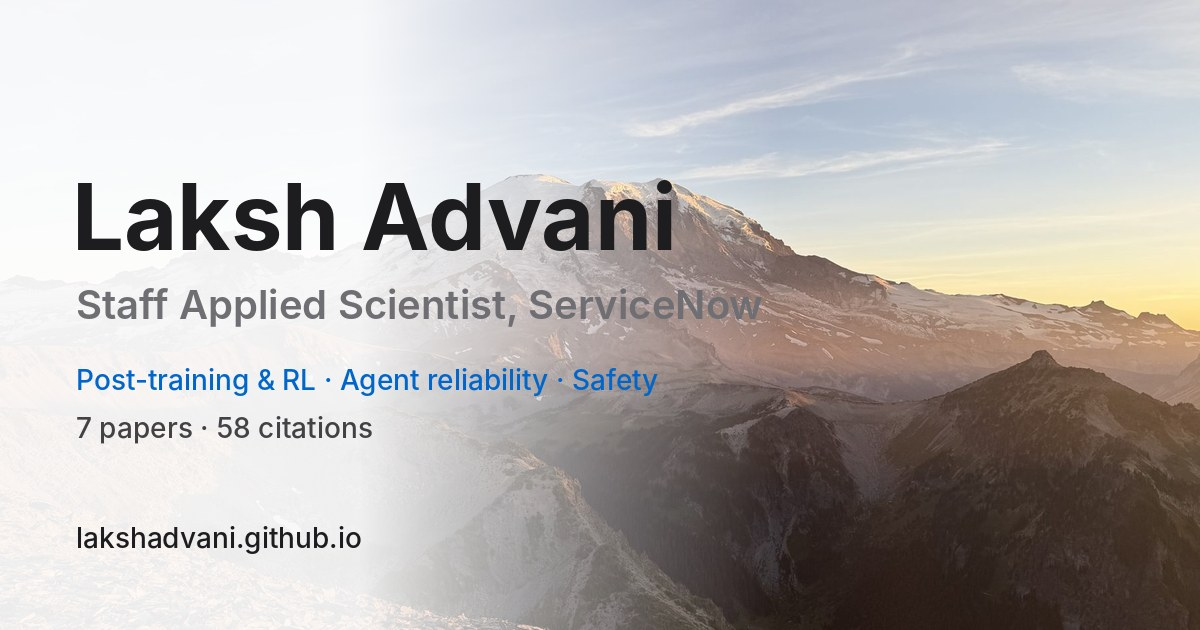
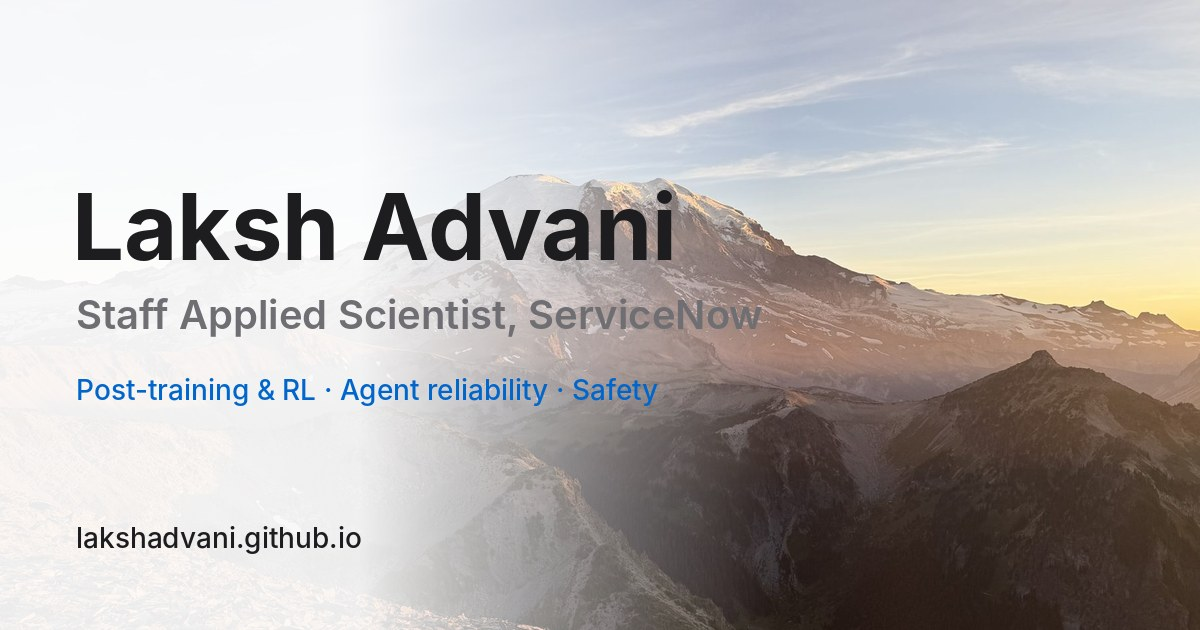
Remove citation counts and stats row; label workshop venues
Claude-Session: https://claude.ai/code/session_01WRRHAVFCCmQWgGw7PysT8v

diff --git a/index.html b/index.html
@@ -274,10 +274,6 @@ section.band.alt{background:var(--alt)}
 .service li b{color:var(--ink);font-weight:600}
 
 /* research explorer */
-.rx-top{display:grid;grid-template-columns:repeat(4,minmax(0,1fr));gap:12px;margin-bottom:22px}
-.rx-top div{background:var(--alt);border-radius:var(--r-md);padding:16px 18px;display:flex;flex-direction:column;gap:2px}
-.rx-top b{font-size:1.9rem;font-weight:700;letter-spacing:-.04em;line-height:1.05;font-variant-numeric:tabular-nums}
-.rx-top span{font-size:.82rem;color:var(--muted)}
 .rx{background:var(--alt);border-radius:var(--r-lg);padding:10px}
 .rx-tabs{display:grid;grid-template-columns:repeat(4,minmax(0,1fr));gap:6px}
 .rx-tabs button{font:inherit;text-align:left;border:0;background:transparent;border-radius:14px;padding:12px 14px;cursor:pointer;display:flex;flex-direction:column;gap:2px;color:var(--ink);min-width:0}
@@ -378,8 +374,7 @@ footer .wrap{padding-block:22px;display:flex;justify-content:space-between;gap:1
   .gw{grid-template-columns:1fr}
   .rx-panel{grid-template-columns:1fr;gap:22px;padding:22px;min-height:0}
   .rx-tabs{grid-template-columns:repeat(2,minmax(0,1fr))}
-  .rx-top{grid-template-columns:repeat(2,minmax(0,1fr))}
-  .skills{grid-template-columns:1fr}
+    .skills{grid-template-columns:1fr}
 }
 @media (max-width:600px){
   section.band{padding-block:60px}
@@ -567,12 +562,6 @@ footer .wrap{padding-block:22px;display:flex;justify-content:space-between;gap:1
   <section class="band" id="publications">
     <div class="wrap">
       <div class="head"><p class="eyebrow">Research</p><h2>Papers, explained.</h2><p>Pick a paper to explore its main result. Numbers come straight from the papers.</p></div>
-      <div class="rx-top">
-        <div><b>7</b><span>papers</span></div>
-        <div><b>58</b><span>citations</span></div>
-        <div><b>5 / 5</b><span>workshop acceptances for <i>Reading the Plan</i></span></div>
-        <div><b>3</b><span>workshops reviewed for</span></div>
-      </div>
       <div class="rx">
         <div class="rx-tabs" id="rx-tabs" role="tablist" aria-label="Featured papers"></div>
         <div class="rx-panel" id="rx-panel" role="tabpanel"></div>
@@ -585,7 +574,6 @@ footer .wrap{padding-block:22px;display:flex;justify-content:space-between;gap:1
         <button type="button" id="f-reasoning" data-f="reasoning" aria-pressed="false">Reasoning</button>
       </div>
       <ul class="pubs" id="pubs" style="background:var(--alt)"></ul>
-      <p class="rx-note">Citation counts from <a href="https://scholar.google.com/citations?hl=en&user=EBLv9hAAAAAJ">Google Scholar</a>, October 2026.</p>
       <div class="service">
         <div class="ed-l">Reviewing</div>
         <ul>
@@ -690,19 +678,19 @@ footer .wrap{padding-block:22px;display:flex;justify-content:space-between;gap:1
 /* ---- Edit your content here ---- */
 const PUBS = [
   { year: 2026, tags: ["agents","eval"], title: "From Confident Closing to Silent Failure: Characterizing False Success in LLM Agents", authors: "L. Advani",
-    venue: "ICML 2026 Workshop on Failure Modes in Agentic AI", cites: 28, links: [["arXiv","https://arxiv.org/abs/2606.09863"]] },
+    venue: "ICML 2026 Workshop on Failure Modes in Agentic AI", links: [["arXiv","https://arxiv.org/abs/2606.09863"]] },
   { year: 2026, tags: ["agents"], title: "Trajectory Guard: A Lightweight, Sequence-Aware Model for Real-Time Anomaly Detection in Agentic AI", authors: "L. Advani",
-    venue: "AAAI 2026 Workshop on Trusted Agents", cites: 14, links: [["arXiv","https://arxiv.org/abs/2601.00516"]] },
+    venue: "AAAI 2026 Workshop on Trusted Agents", links: [["arXiv","https://arxiv.org/abs/2601.00516"]] },
   { year: 2026, tags: ["reasoning","eval"], title: "When Small Models Are Right for Wrong Reasons: Process Verification for Trustworthy Agents", authors: "L. Advani",
-    venue: "AAAI 2026 Workshop on Trusted Agents", cites: 4, links: [["arXiv","https://arxiv.org/abs/2601.00513"]] },
+    venue: "AAAI 2026 Workshop on Trusted Agents", links: [["arXiv","https://arxiv.org/abs/2601.00513"]] },
   { year: 2026, tags: ["agents"], title: "Reading the Plan: Multi-Horizon Action Prediction from Frozen LLM Hidden States", authors: "L. Advani",
     venue: "NeurIPS 2026 Workshops", award: "Accepted at 5 of 5 workshops", links: [] },
   { year: 2026, tags: ["reasoning"], title: "lakshadvani at SemEval-2026 Task 11: A Neuro-Symbolic Approach to Content-Independent Syllogistic Reasoning", authors: "L. Advani",
-    venue: "SemEval 2026", award: "Top 3, Subtask 1", cites: 1, links: [] },
+    venue: "SemEval 2026", award: "Top 3, Subtask 1", links: [] },
   { year: 2023, tags: ["eval"], title: "Effective Proxy for Human Labeling: Ensemble Disagreement Scores in Large Language Models for Industrial NLP", authors: "W. Du, L. Advani, Y. Gambhir, D. Perry, P. Shiralkar, Z. Xing, A. Colak",
-    venue: "GEM Workshop @ EMNLP 2023", cites: 2, links: [["ACL Anthology","https://aclanthology.org/search/?q=Effective+Proxy+for+Human+Labeling"]] },
+    venue: "GEM Workshop @ EMNLP 2023", links: [["ACL Anthology","https://aclanthology.org/search/?q=Effective+Proxy+for+Human+Labeling"]] },
   { year: 2020, tags: [], title: "C1 at SemEval-2020 Task 9: SentiMix: Sentiment Analysis for Code-Mixed Social Media Text Using Feature Engineering", authors: "L. Advani, C. Lu, S. Maharjan",
-    venue: "SemEval 2020 @ COLING", cites: 9, links: [["ACL Anthology","https://aclanthology.org/search/?q=C1+at+SemEval-2020+Task+9"]] }
+    venue: "SemEval 2020 @ COLING", links: [["ACL Anthology","https://aclanthology.org/search/?q=C1+at+SemEval-2020+Task+9"]] }
 ];
 
 /* Put image files in a photos/ folder next to this page and fill in src + caption. */
@@ -731,7 +719,7 @@ const PHOTOS = [
 const esc = s => String(s).replace(/[&<>"]/g, c => ({"&":"&amp;","<":"&lt;",">":"&gt;",'"':"&quot;"}[c]));
 const pubsEl = document.getElementById("pubs");
 function renderPubs(filter){
-  const list = PUBS.filter(p => filter === "all" || p.tags.includes(filter)).sort((a,b) => b.year - a.year || (b.cites || 0) - (a.cites || 0));
+  const list = PUBS.filter(p => filter === "all" || p.tags.includes(filter)).sort((a,b) => b.year - a.year);
   pubsEl.innerHTML = list.map(p => `
     <li class="pub">
       <div class="yr">${p.year}</div>
@@ -743,7 +731,6 @@ function renderPubs(filter){
           ${p.status ? `<span class="status">● ${esc(p.status)}</span>` : ""}
           ${p.award ? `<span class="award">${esc(p.award)}</span>` : ""}
           ${p.note ? `<span>${esc(p.note)}</span>` : ""}
-          ${p.cites ? `<span class="cites">Cited by ${p.cites}</span>` : ""}
           ${p.links.map(([t,u]) => `<a href="${esc(u)}">${esc(t)} ↗</a>`).join("")}
         </div>
       </div>
@@ -807,7 +794,7 @@ const KB = [
   { id: "prev", q: ["previous job", "before servicenow", "qualtrics", "past experience", "work history career"], a: "Before ServiceNow: Qualtrics (2021–2024) moving survey NLP to fine-tuned Llama 2 and Mistral at 95% of GPT-4 quality and 10x lower cost; Capital One Labs (2019–2021) in applied NLP; and Sandia National Labs (2018–2019) building transformers for malware analysis." },
   { id: "edu", q: ["education", "where did he study", "degree", "university college", "masters school", "go to school", "studied cu boulder"], a: "He has an M.S. in Computer Science from the University of Colorado Boulder." },
   { id: "exp", q: ["how many years of experience", "how experienced is he", "years experience worked", "how many years worked", "how long working industry", "seniority level"], a: "8+ years in applied ML, now at Staff level." },
-  { id: "pubs", q: ["publications", "papers", "what has he published", "list of research papers", "google scholar citations", "how many citations"], a: "Seven papers with 58 citations. Highlights: From Confident Closing to Silent Failure (ICML 2026 workshop, 28 citations), Trajectory Guard and Right for Wrong Reasons (AAAI 2026 workshops), and Reading the Plan, accepted at 5 of 5 NeurIPS 2026 workshops. Explore them in the Research section." },
+  { id: "pubs", q: ["publications", "papers", "what has he published", "list of research papers", "google scholar", "how many papers"], a: "Highlights: From Confident Closing to Silent Failure (ICML 2026 workshop), Trajectory Guard and Right for Wrong Reasons (AAAI 2026 workshops), and Reading the Plan, accepted at 5 of 5 NeurIPS 2026 workshops. Explore them in the Research section." },
   { id: "rtp", q: ["reading the plan", "hidden states probing", "predict future actions", "neurips workshop paper", "confidence gating"], a: "Reading the Plan predicts an agent's future actions at several horizons from frozen LLM hidden states. Confidence gating cuts LLM calls by 75%. It was accepted at all five NeurIPS 2026 workshops it was submitted to." },
   { id: "silent", q: ["silent failures", "false success detection", "llm judges", "agent says done but failed", "failure detector classifier", "confident closing paper", "icml paper"], a: "From Confident Closing to Silent Failure (ICML 2026 workshop) studies agents that claim success when the task failed. Across 11,755 trajectories, no LLM-judge setup tops 0.65 AUROC, while cheap TF-IDF detectors reach 0.83 to 0.95 with 3,300x lower latency." },
   { id: "tg", q: ["trajectory guard", "aaai paper", "agent trajectory guardrails", "anomaly detection agents"], a: "Trajectory Guard (AAAI 2026 workshop) is a lightweight sequence model that flags anomalies in agent trajectories in real time: F1 0.88 to 0.94 vs at most 0.69 for unsupervised baselines, at 32 ms and 17 to 27x faster than LLM judges." },
@@ -1233,26 +1220,26 @@ const LIMIT = 86;
   const fw = box => Math.round(Math.max(320, Math.min(520, box.clientWidth || 520)));
 
   const PAPERS = [
-    { key: "silent", short: "Silent failure", venue: "ICML 2026 · Failure Modes in Agentic AI",
+    { key: "silent", short: "Silent failure", venue: "ICML 2026 Workshop · Failure Modes in Agentic AI",
       title: "From Confident Closing to Silent Failure: Characterizing False Success in LLM Agents",
       tldr: "Agents often say a task is done when the environment shows it isn't. Across 11,755 trajectories from τ²-bench and AppWorld, no LLM-judge setup tops 0.65 AUROC at catching this. Judges read confident wording and how busy the agent looked, not the end state. Cheap text detectors do much better.",
       stats: [["0.83 / 0.95", "detector AUROC, τ²-bench / AppWorld"], ["4–8×", "more false successes caught at the same flag rate"], ["3,300×", "lower latency than LLM judges"]],
-      cites: 28, link: ["arXiv", "https://arxiv.org/abs/2606.09863"], fig: figSilent },
-    { key: "tg", short: "Trajectory Guard", venue: "AAAI 2026 · Workshop on Trusted Agents",
+      link: ["arXiv", "https://arxiv.org/abs/2606.09863"], fig: figSilent },
+    { key: "tg", short: "Trajectory Guard", venue: "AAAI 2026 Workshop · Trusted Agents",
       title: "Trajectory Guard: A Lightweight, Sequence-Aware Model for Real-Time Anomaly Detection in Agentic AI",
       tldr: "A small sequence model that reads an agent's trajectory step by step and flags anomalies as they happen. Unsupervised detectors on pre-trained embeddings miss most of them; Trajectory Guard catches them fast enough to run inline.",
       stats: [["0.88–0.94", "F1 on balanced sets, vs ≤ 0.69 for baselines"], ["32 ms", "inference latency"], ["17–27×", "faster than LLM-judge baselines"]],
-      cites: 14, link: ["arXiv", "https://arxiv.org/abs/2601.00516"], fig: figTG },
-    { key: "rwr", short: "Right for wrong reasons", venue: "AAAI 2026 · Workshop on Trusted Agents",
+      link: ["arXiv", "https://arxiv.org/abs/2601.00516"], fig: figTG },
+    { key: "rwr", short: "Right for wrong reasons", venue: "AAAI 2026 Workshop · Trusted Agents",
       title: "When Small Models Are Right for Wrong Reasons: Process Verification for Trustworthy Agents",
       tldr: "For 7–9B models, a correct answer often hides broken reasoning. Across 10,734 reasoning traces, the paper scores reasoning integrity, finds that retrieval helps while self-critique hurts, and distills the check into a fast classifier.",
       stats: [["50–69%", "of correct answers had flawed reasoning"], ["κ 0.657", "inter-rater agreement on the integrity score"], ["0.86 F1", "distilled verifier, 100× faster"]],
-      cites: 4, link: ["arXiv", "https://arxiv.org/abs/2601.00513"], fig: figRWR },
+      link: ["arXiv", "https://arxiv.org/abs/2601.00513"], fig: figRWR },
     { key: "rtp", short: "Reading the Plan", venue: "NeurIPS 2026 Workshops · accepted at 5 of 5",
       title: "Reading the Plan: Multi-Horizon Action Prediction from Frozen LLM Hidden States",
       tldr: "An agent's upcoming actions can be read from its hidden states before it acts. Lightweight probes predict actions at several horizons, and confidence gating lets the agent skip the LLM call whenever the probe is sure.",
       stats: [["75%", "fewer LLM calls with confidence gating"], ["5 of 5", "NeurIPS 2026 workshops accepted it"]],
-      cites: null, link: null, fig: figRTP }
+      link: null, fig: figRTP }
   ];
 
   const el = (tag, attrs = {}, parent) => { const e = document.createElementNS(NS, tag); for (const k in attrs) e.setAttribute(k, attrs[k]); if (parent) parent.appendChild(e); return e; };
@@ -1415,7 +1402,7 @@ const LIMIT = 86;
         <h3>${esc(p.title)}</h3>
         <p class="rx-tldr">${esc(p.tldr)}</p>
         <div class="rx-stats-row">${p.stats.map(([v, l]) => `<div class="rx-stat"><b>${esc(v)}</b><span>${esc(l)}</span></div>`).join("")}</div>
-        <div class="rx-links">${p.link ? `<a href="${esc(p.link[1])}">Read the paper ›</a>` : ""}${p.cites ? `<span class="rx-cites">Cited by ${p.cites}</span>` : ""}</div>
+        <div class="rx-links">${p.link ? `<a href="${esc(p.link[1])}">Read the paper ›</a>` : ""}</div>
       </div>
       <div class="rx-fig" id="rx-fig"></div>`;
     const fig = document.getElementById("rx-fig"); lastW = fw(fig); p.fig(fig);
